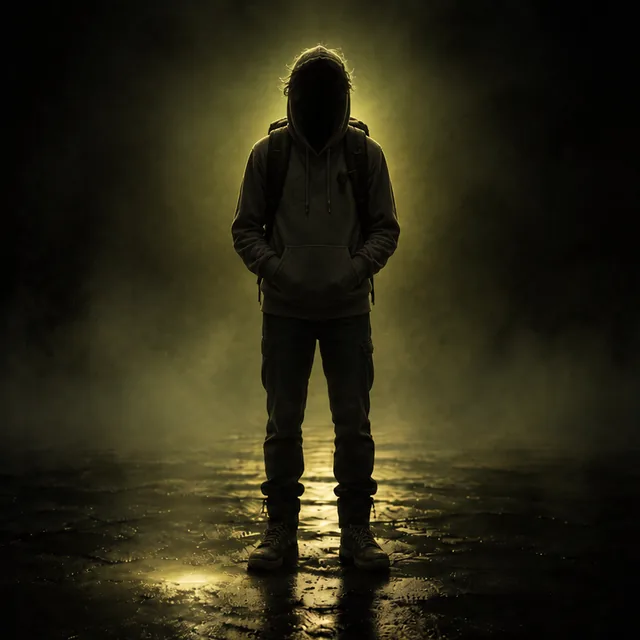
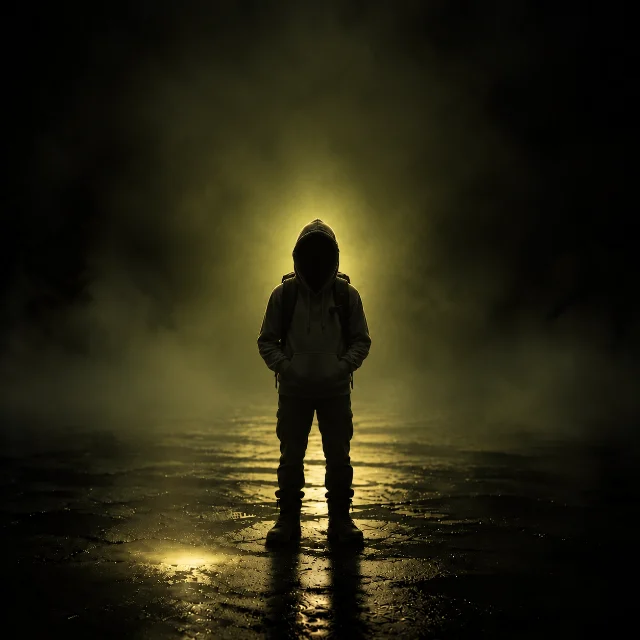
feat: artes femininas das classes, adolescente mais baixo e cavaleiro com escudo
As seis artes novas foram geradas no mesmo estilo das existentes — silhueta de
corpo inteiro em contraluz amarelo-esverdeado, névoa e chão molhado, 640x640.

- Cada classe agora tem `<classe>_feminino.webp` ao lado da arte comum, e a
  criação de personagem escolhe a arte pelo gênero já selecionado. Uma classe
  sem arquivo feminino cai de volta na arte comum.
- O adolescente foi refeito visivelmente mais baixo que as outras classes, com
  o corpo menor dentro do mesmo quadro.
- O cavaleiro perdeu a armadura de placas e a espada: agora é low fantasy, com
  gambeson surrado e apenas um escudo de madeira.

Changed region(s): [[0.125, 0.0, 0.875, 1.0]]

diff --git a/src/config/character.ts b/src/config/character.ts
@@ -30,24 +30,20 @@ export const CLASSES: ReadonlyArray<CharacterOption<CharacterClassId>> = [
 
 /**
  * Arte feminina de cada classe, usada quando o jogador escolhe "Feminino".
- * Enquanto um arquivo não existir, `classArtFor` devolve a arte comum da classe —
- * a tela nunca fica com um card vazio no meio dos outros.
+ * Uma classe sem arquivo aqui cai de volta na arte comum da classe, para a tela
+ * nunca ficar com um card vazio no meio dos outros.
  */
-const FEMALE_CLASS_ART: Readonly<Record<CharacterClassId, string>> = {
+const FEMALE_CLASS_ART: Readonly<Partial<Record<CharacterClassId, string>>> = {
   explorador: `${ART}/explorador_feminino.webp`,
   tecnico: `${ART}/tecnico_feminino.webp`,
   adolescente: `${ART}/adolescente_feminino.webp`,
   cavaleiro: `${ART}/cavaleiro_feminino.webp`,
 };
 
-/** Artes femininas que já existem em `public/assets/characters`. */
-const FEMALE_CLASS_ART_READY: ReadonlySet<CharacterClassId> = new Set<CharacterClassId>([]);
-
 /** Arte da classe para o gênero escolhido. */
 export const classArtFor = (classId: CharacterClassId, gender: CharacterGender): string | undefined => {
   const base = CLASSES.find((option) => option.id === classId)?.image;
-  if (gender !== 'female') return base;
-  return FEMALE_CLASS_ART_READY.has(classId) ? FEMALE_CLASS_ART[classId] : base;
+  return gender === 'female' ? FEMALE_CLASS_ART[classId] ?? base : base;
 };
 
 /** O último passo da criação: com interface ou sem nenhuma. */

diff --git a/README.md b/README.md
@@ -91,9 +91,10 @@ esquerdo, as opções ocupam o resto da tela e "Voltar" e "Continuar" ficam no m
 Classe e fobia ficam gravadas no registro e aparecem na lista de campanhas; por enquanto
 não alteram as mecânicas. Gênero, item inicial e modo já têm efeito no jogo.
 
-> As artes femininas das classes ainda não existem em `public/assets/characters`. Assim
-> que os arquivos `<classe>_feminino.webp` forem adicionados, basta incluir o id da classe
-> em `FEMALE_CLASS_ART_READY` (`src/config/character.ts`) para a tela passar a usá-los.
+Cada classe tem duas artes em `public/assets/characters`: `<classe>.webp` e
+`<classe>_feminino.webp`. A tela escolhe a arte pelo gênero já selecionado e cai de volta
+na arte comum se o arquivo feminino não existir (`classArtFor`, em
+`src/config/character.ts`).
 
 ## Sistemas implementados
 
